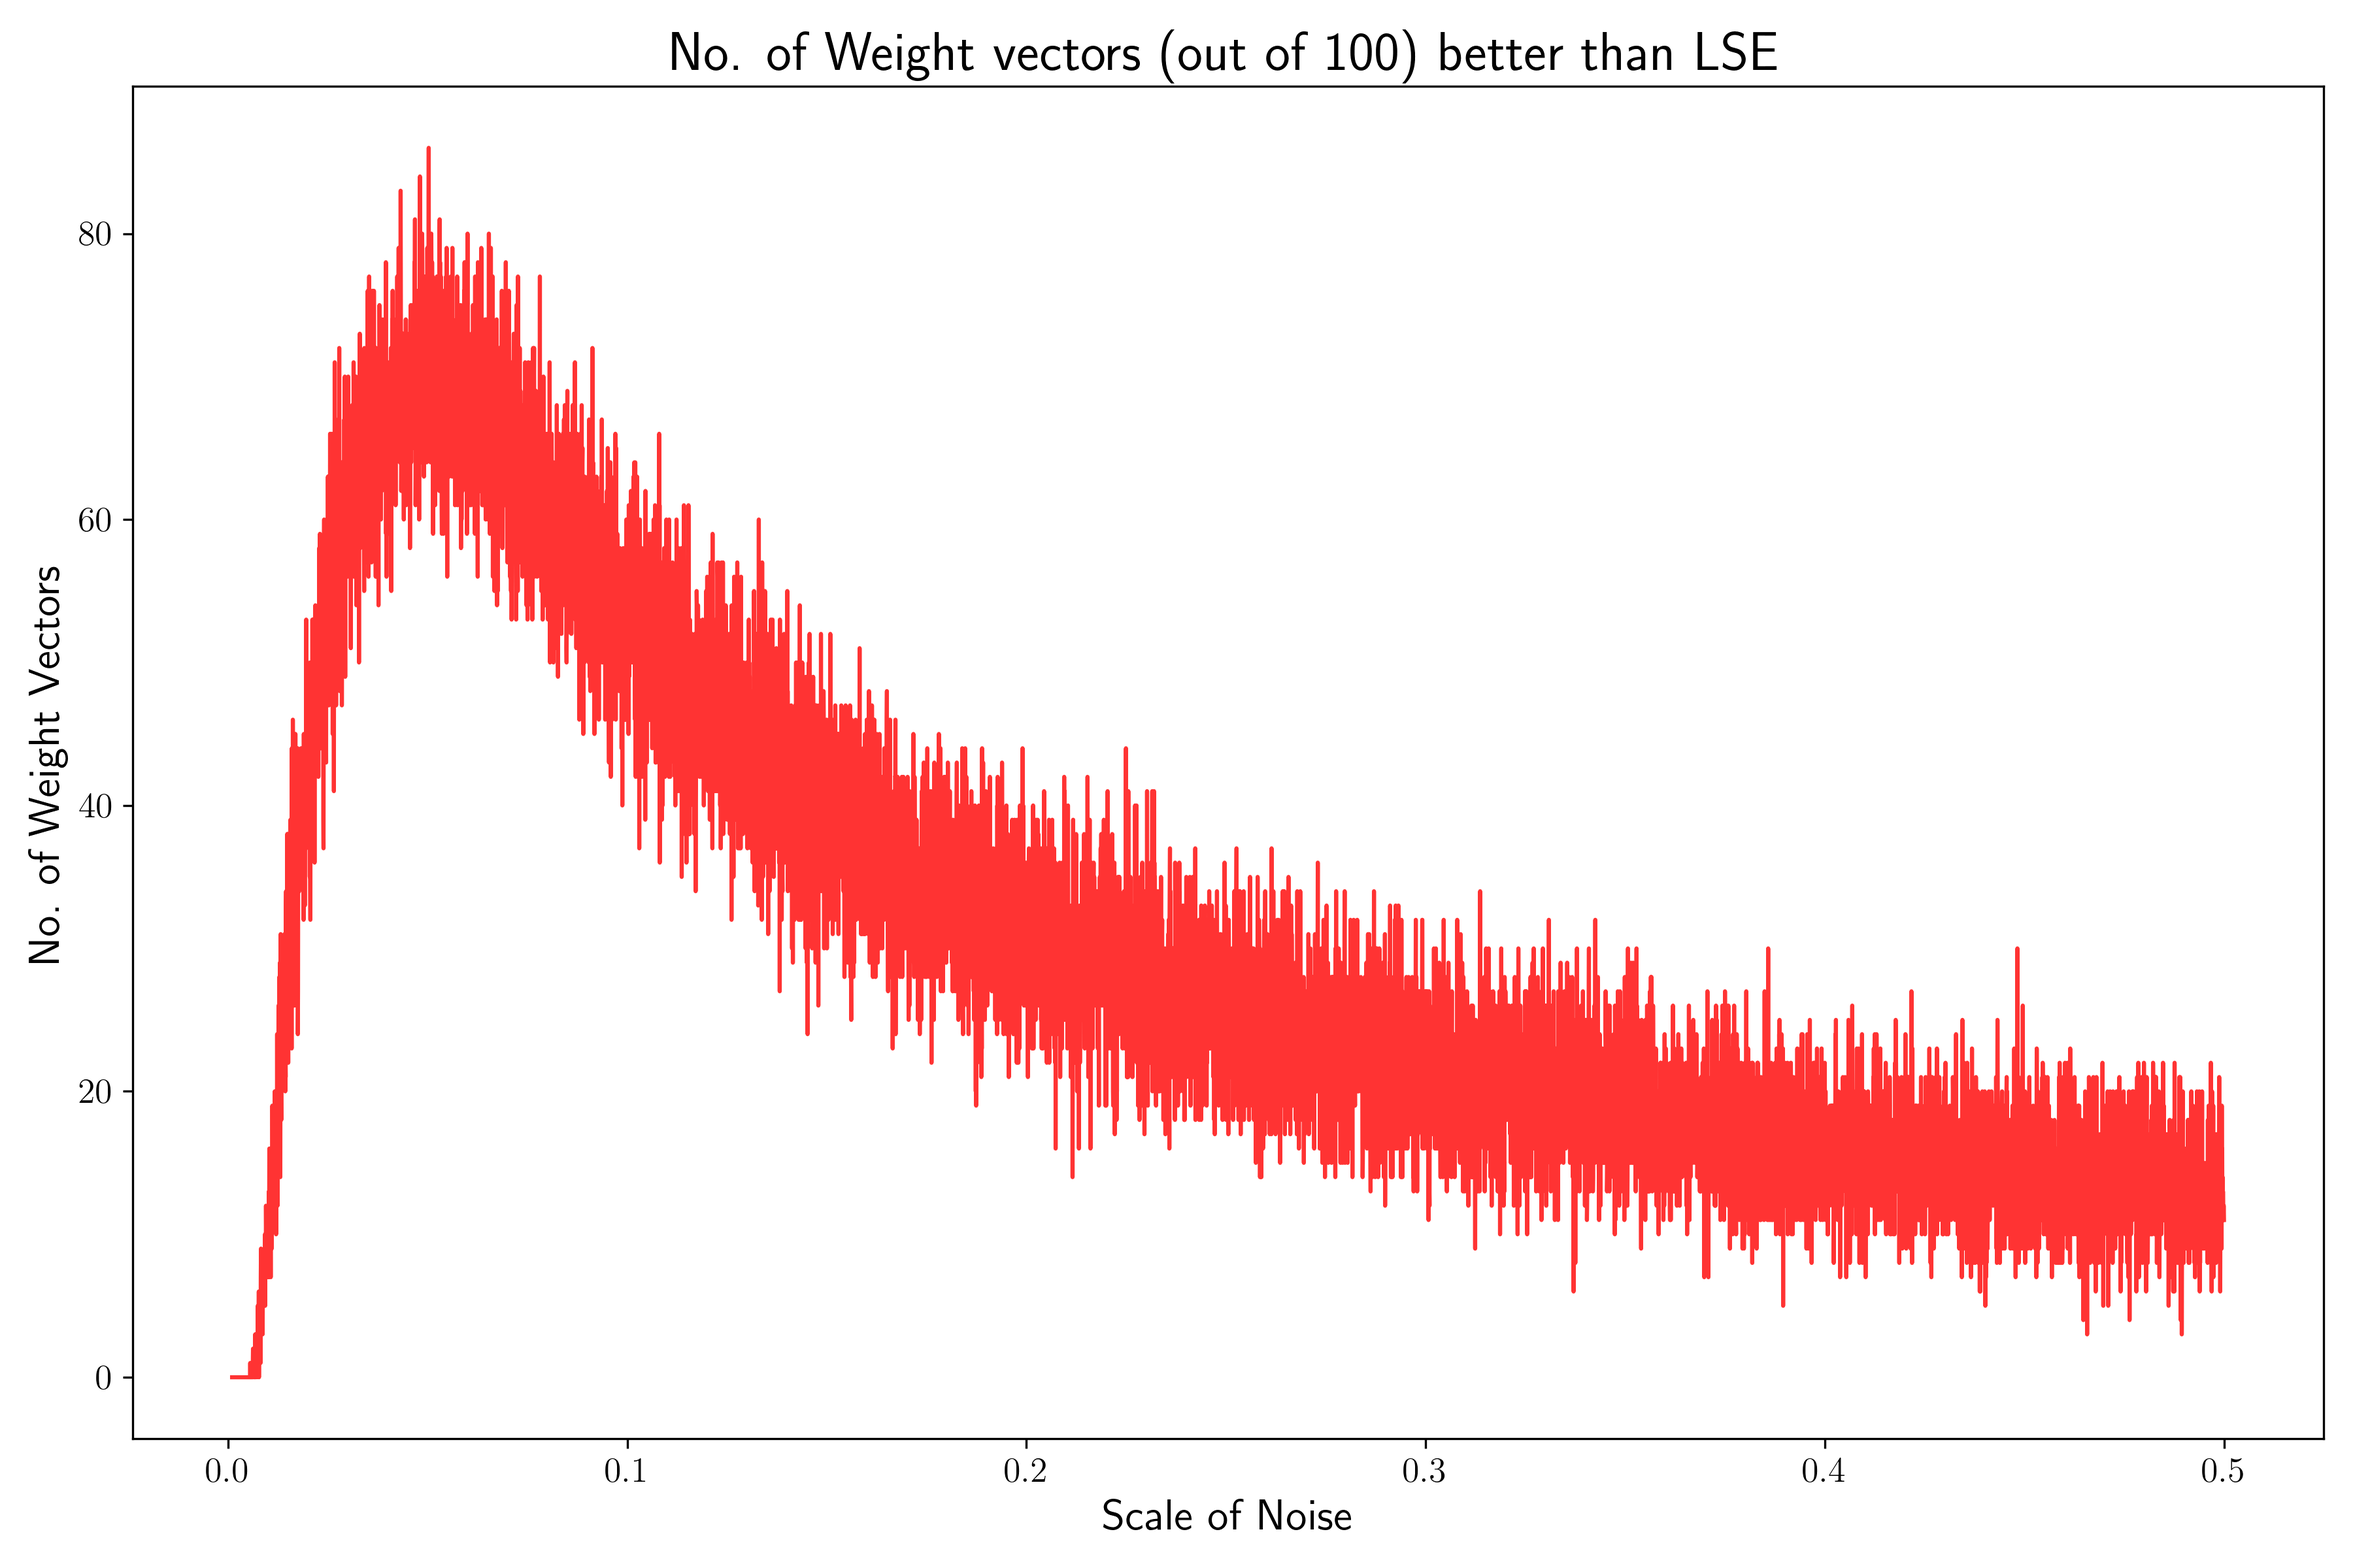
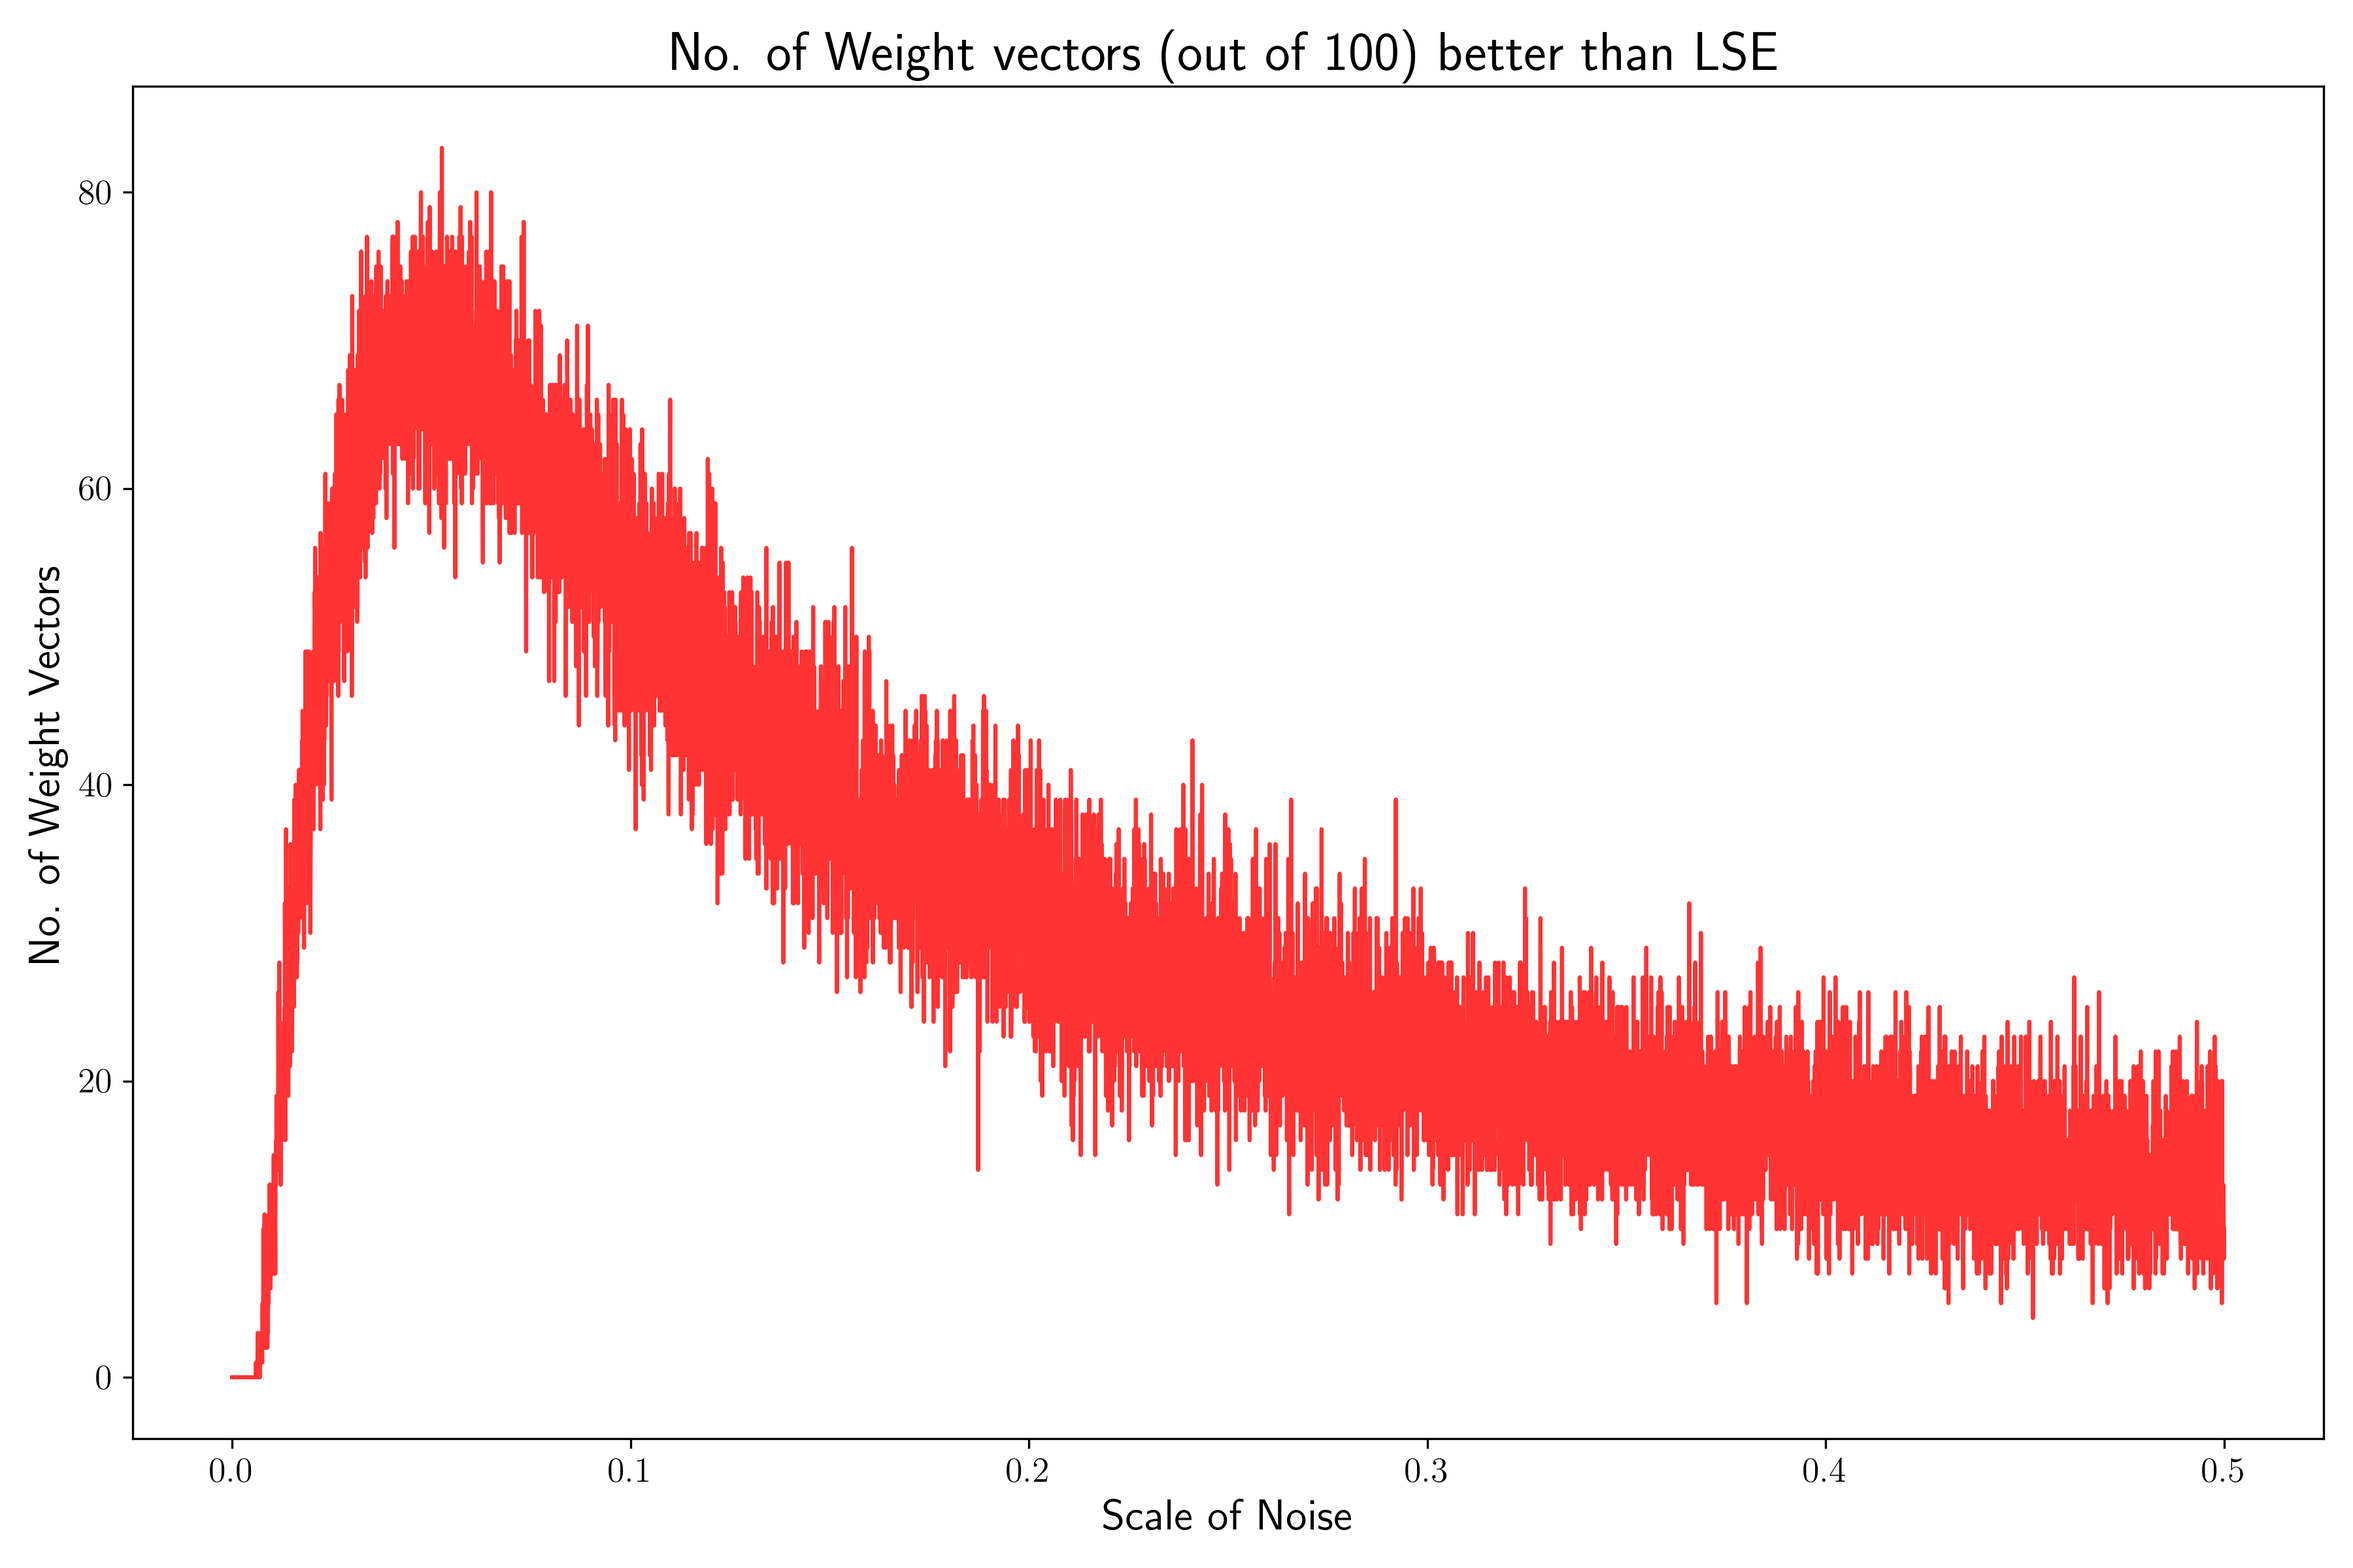
Added part 1 d) plots

diff --git a/src/iris_questions.py b/src/iris_questions.py
@@ -10,9 +10,9 @@ plt.rcParams['text.usetex']  = True \
     if shutil.which('latex') else False
 
 
-
 iris_data_loc = './data/iris.csv' # File name of IRIS dataset
 data_array = ic.extract_dataset(iris_data_loc)
+
 
 def part_c(frac = 0, weight_samples = 100):
 
@@ -74,11 +74,55 @@ def part_c(frac = 0, weight_samples = 100):
 
     # print(f"In {weight_samples} random weight samples, {corr_higher} higher than least-squares solution")
 
+def part_d_i(frac = 0.5):
+
+    plt.figure(figsize = (12, 8))
+
+
+    train_X, train_y, test_X, test_y = ic.split_data_rnd(data_array, fraction=frac)
+
+    reg = 5e-2
+
+    no_correct, weight_vec = ic.cluster_dataset_test(train_X, train_y, test_X, test_y)
+    w_cg = ic.tikhonov_cg_lse(train_X,train_y, reg_param= reg)
+    w_qr = ic.tikhonov_qr_lse(train_X,train_y, reg_param= reg)
+    w_bd = ic.tikhonov_bold_driver(train_X, train_y, reg_param=reg)
+
+    print("Weights of cg:", w_cg)
+    print(f"Number correct (out of {test_y.size})", ic.calculate_correct(test_X, test_y, w_cg))
+    print("Weights of qr:", w_qr)
+    print(f"Number correct (out of {test_y.size})", ic.calculate_correct(test_X, test_y, w_qr))
+    print("weights of bd:", w_bd)
+    print(f"Number correct (out of {test_y.size})", ic.calculate_correct(test_X, test_y, w_bd))
+    print("Weights of hyperplane clustering:", weight_vec)
+    print(f"Number correct (out of {test_y.size})", ic.calculate_correct(test_X, test_y, weight_vec))
+
+    x = [int(i) for i in range(w_cg.size)]
+    
+    plt.plot(x, w_cg , label = f"Conjugate GD ($\lambda = {reg}$)",
+                marker = 'x', alpha = 0.8, linestyle = '--')
+    plt.plot(x, w_qr, label = f"QR ($\lambda = {reg}$)",
+                marker = 'o', alpha = 0.8, linestyle = '--')
+    plt.plot(x, weight_vec, label = "Ordinary LSE",
+                marker = '^', alpha = 0.8, linestyle = '--')
+    plt.plot(x, w_bd, label = f"Bold Driver GD ($\lambda = {reg}$)",
+                marker = '>', alpha = 0.8, linestyle = '--')
+
+    plt.xlabel("Weight Vector Index", fontsize = 19)
+    plt.xticks(fontsize = 16)
+    plt.yticks(fontsize = 16)
+
+    plt.ylabel("Normalised Weight Value", fontsize=19)
+    plt.title("Algorithm Comparision with %.1f fraction as training" % (frac), fontsize =22)
+    plt.legend(frameon=True, fontsize=15)
+    plt.tight_layout()
+    plt.savefig("iris_figures/iris_gd_comparison", dpi = 300)
     
 
 
 def main():
-    part_c()
+    # part_c()
+    part_d_i()
 
 
 if __name__ == "__main__":

diff --git a/src/iris_classification.py b/src/iris_classification.py
@@ -228,7 +228,7 @@ def tikhonov_bold_driver(data, outcome, reg_param = 1, x = None, epsilon = 1e-8)
         x = np.ones(data.shape[1])
     
     def grad_f(w):
-        return (X_gram + reg_param * np.eye(data.shape[1])) @ w - Xy
+        return (X_gram + reg_param**0.5 * np.eye(data.shape[1])) @ w - Xy
     def obj_f(w):
         return w.T @ X_gram @ w - w.T @ Xy - Xy.T @ w + y_2 + w.T @ w
 
@@ -385,8 +385,8 @@ def _test_3(): # weight comparison of different algorithms
     plt.savefig("iris_figures/iris_weight_comparison", dpi = 300)
 
 def main():
-
-    _test_3()
+    
+    pass
 
 if __name__ == "__main__":
     main()
